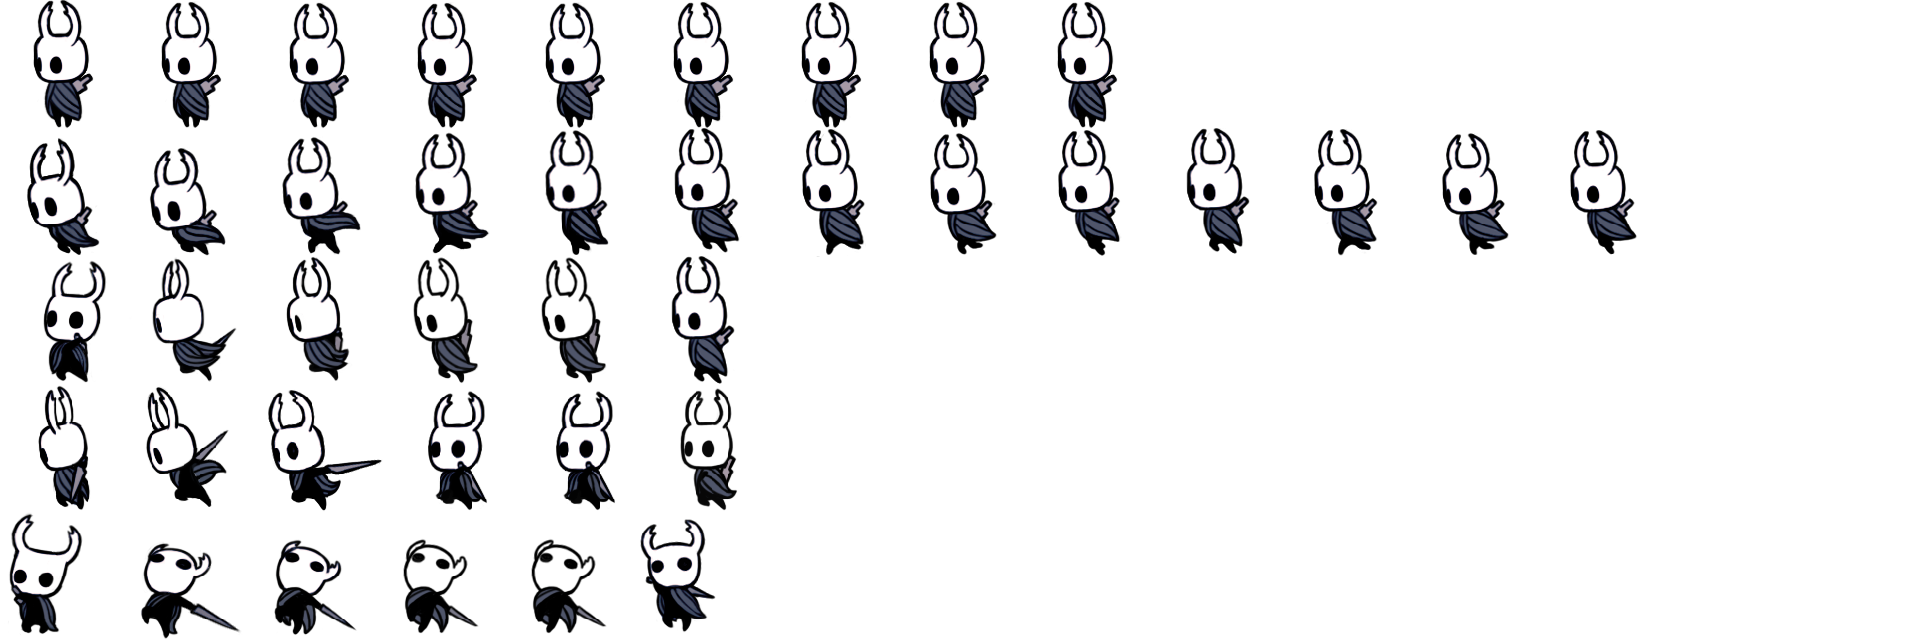
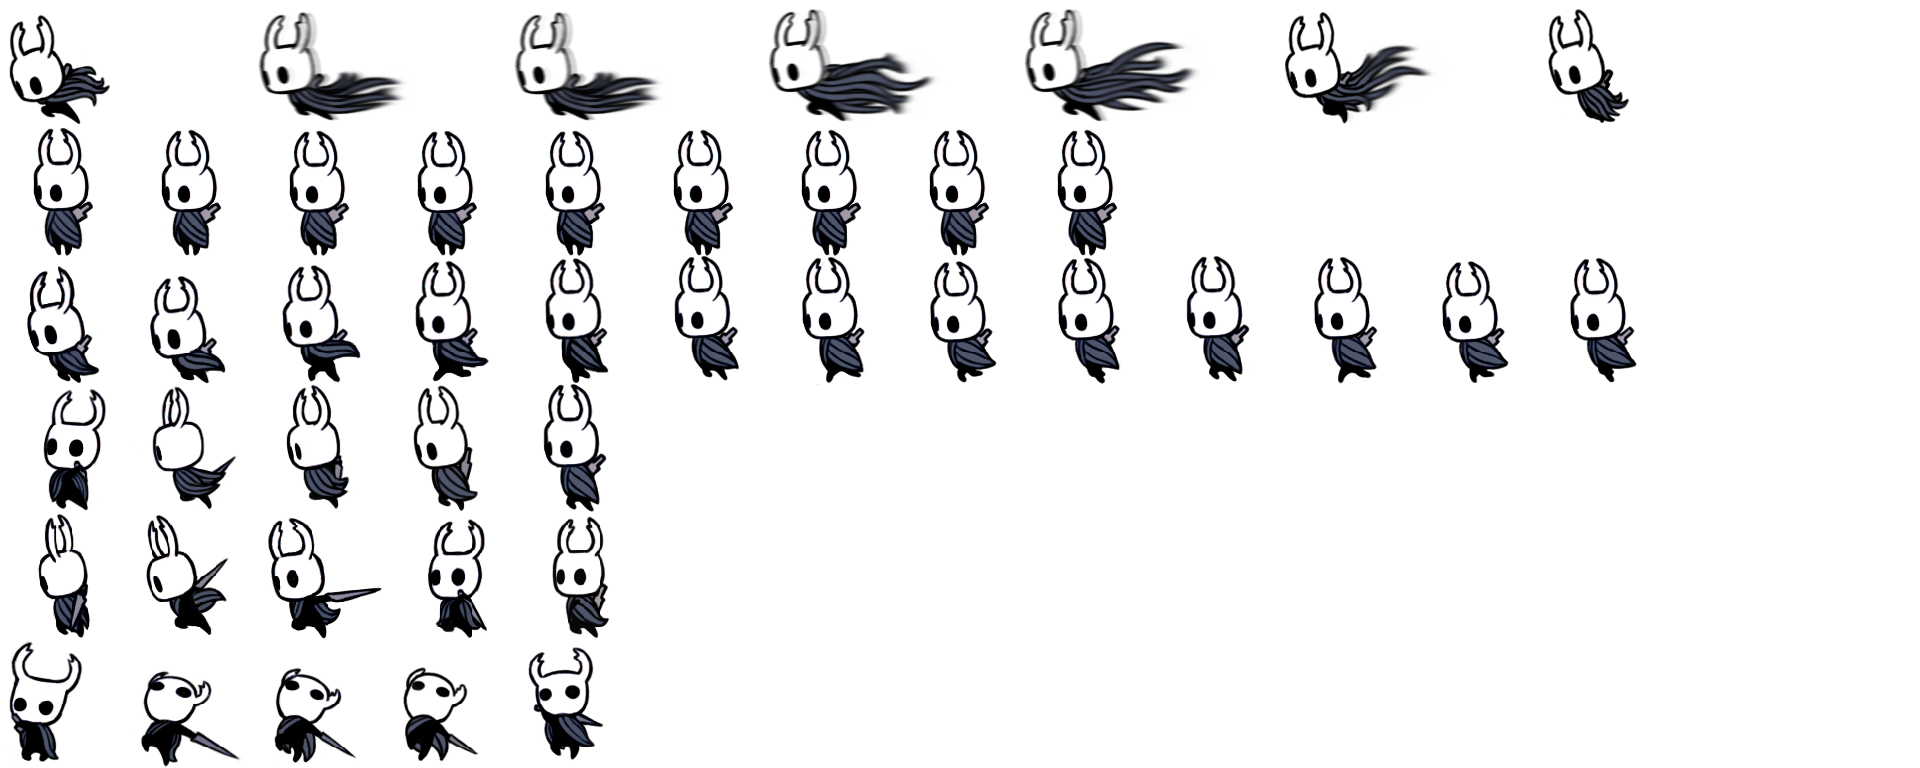
대쉬 상태 생성(아직 미완성)

diff --git a/knight.py b/knight.py
@@ -16,7 +16,7 @@ RUN_SPEED_MPS = (RUN_SPEED_MPM / 60.0)
 RUN_SPEED_PPS = (RUN_SPEED_MPS * PIXEL_PER_METER)
 
 
-TIME_PER_ACTION = 0.4
+TIME_PER_ACTION = 0.5
 ACTION_PER_TIME = 1.0 / TIME_PER_ACTION
 FRAMES_PER_ACTION_IDLE = 9
 FRAMES_PER_ACTION_RUN = 8
@@ -171,7 +171,7 @@ class Slash:
     @staticmethod
     def do(knight):
         knight.slash_frame = (knight.slash_frame + FRAMES_PER_ACTION_SLASH * ACTION_PER_TIME * game_framework.frame_time)
-        if knight.slash_frame > 5:
+        if knight.slash_frame > 4:
             knight.slash_frame = 0
             knight.state_machine.add_event(('ENT_MOTION', 0))
     @staticmethod
@@ -181,7 +181,7 @@ class Slash:
                 knight.image.clip_composite_draw(
                     int(knight.slash_frame) * 128, knight.action * 128, 128, 128,
                     0, 'h',
-                    knight.x - 41, knight.y, 128, 128
+                    knight.x - 16, knight.y, 128, 128
                 )
             else:
                 knight.image.clip_composite_draw(
@@ -191,7 +191,7 @@ class Slash:
                 )
         else:
             if knight.action == 0:
-                knight.image.clip_draw(int(knight.slash_frame) * 128, knight.action * 128, 128, 128, knight.x + 41,
+                knight.image.clip_draw(int(knight.slash_frame) * 128, knight.action * 128, 128, 128, knight.x + 16,
                                        knight.y)
             else:
                 knight.image.clip_draw(int(knight.slash_frame) * 128, knight.action * 128, 128, 128, knight.x, knight.y)
@@ -208,7 +208,7 @@ class Up_Slash:
     @staticmethod
     def do(knight):
         knight.slash_frame = (knight.slash_frame + FRAMES_PER_ACTION_SLASH * ACTION_PER_TIME * game_framework.frame_time)
-        if knight.slash_frame > 5:
+        if knight.slash_frame > 4:
             knight.slash_frame = 0
             knight.state_machine.add_event(('ENT_MOTION', 0))
     @staticmethod
@@ -218,7 +218,7 @@ class Up_Slash:
                 knight.image.clip_composite_draw(
                     int(knight.slash_frame) * 128, knight.action * 128, 128, 128,
                     0, 'h',
-                    knight.x - 41, knight.y, 128, 128
+                    knight.x - 16, knight.y, 128, 128
                 )
             else:
                 knight.image.clip_composite_draw(
@@ -228,7 +228,7 @@ class Up_Slash:
                 )
         else:
             if knight.action == 0:
-                knight.image.clip_draw(int(knight.slash_frame) * 128, knight.action * 128, 128, 128, knight.x + 41,
+                knight.image.clip_draw(int(knight.slash_frame) * 128, knight.action * 128, 128, 128, knight.x + 16,
                                        knight.y)
             else:
                 knight.image.clip_draw(int(knight.slash_frame) * 128, knight.action * 128, 128, 128, knight.x, knight.y)
@@ -253,7 +253,7 @@ class Move_Slash:
     @staticmethod
     def do(knight):
         knight.slash_frame = (knight.slash_frame + FRAMES_PER_ACTION_SLASH * ACTION_PER_TIME * game_framework.frame_time)
-        if knight.slash_frame > 5:
+        if knight.slash_frame > 4:
             knight.slash_frame = 0
             knight.state_machine.add_event(('ENT_MOTION', 0))
         knight.x += knight.dir * RUN_SPEED_PPS * game_framework.frame_time
@@ -265,7 +265,7 @@ class Move_Slash:
                 knight.image.clip_composite_draw(
                     int(knight.slash_frame) * 128, knight.action * 128, 128, 128,
                     0, 'h',
-                    knight.x - 41, knight.y, 128, 128
+                    knight.x - 16, knight.y, 128, 128
                 )
             else:
                 knight.image.clip_composite_draw(
@@ -275,7 +275,7 @@ class Move_Slash:
                 )
         else:
             if knight.action == 0:
-                knight.image.clip_draw(int(knight.slash_frame) * 128, knight.action * 128, 128, 128, knight.x + 41,
+                knight.image.clip_draw(int(knight.slash_frame) * 128, knight.action * 128, 128, 128, knight.x + 16,
                                        knight.y)
             else:
                 knight.image.clip_draw(int(knight.slash_frame) * 128, knight.action * 128, 128, 128, knight.x, knight.y)
@@ -299,7 +299,7 @@ class Up_Move_Slash:
     @staticmethod
     def do(knight):
         knight.slash_frame = (knight.slash_frame + FRAMES_PER_ACTION_SLASH * ACTION_PER_TIME * game_framework.frame_time)
-        if knight.slash_frame > 5:
+        if knight.slash_frame > 4:
             knight.slash_frame = 0
             knight.state_machine.add_event(('ENT_MOTION', 0))
         knight.x += knight.dir * RUN_SPEED_PPS * game_framework.frame_time
@@ -311,7 +311,7 @@ class Up_Move_Slash:
                 knight.image.clip_composite_draw(
                     int(knight.slash_frame) * 128, knight.action * 128, 128, 128,
                     0, 'h',
-                    knight.x - 41, knight.y, 128, 128
+                    knight.x - 16, knight.y, 128, 128
                 )
             else:
                 knight.image.clip_composite_draw(
@@ -321,10 +321,61 @@ class Up_Move_Slash:
                 )
         else:
             if knight.action == 0:
-                knight.image.clip_draw(int(knight.slash_frame) * 128, knight.action * 128, 128, 128, knight.x + 41,
+                knight.image.clip_draw(int(knight.slash_frame) * 128, knight.action * 128, 128, 128, knight.x + 16,
                                        knight.y)
             else:
                 knight.image.clip_draw(int(knight.slash_frame) * 128, knight.action * 128, 128, 128, knight.x, knight.y)
+
+class Dash:
+    @staticmethod
+    def enter(knight , e):
+        knight.frame = 0
+        pass
+    @staticmethod
+    def exit(knight , e):
+        pass
+    @staticmethod
+    def do(knight):
+        knight.frame = (knight.frame + FRAMES_PER_ACTION_SLASH * ACTION_PER_TIME * game_framework.frame_time)
+        if knight.frame > 7:
+            knight.state_machine.add_event(('ENT_MOTION', 0))
+        knight.x += knight.dir * RUN_SPEED_PPS * game_framework.frame_time
+    @staticmethod
+    def draw(knight):
+        if knight.face_dir == 1:
+            knight.image.clip_composite_draw(
+                int(knight.slash_frame) * 256, knight.action * 128, 256, 128,
+                0, 'h',
+                knight.x, knight.y, 256, 128
+            )
+        else:
+            knight.image.clip_draw(int(knight.slash_frame) * 256, knight.action * 128, 256, 128, knight.x, knight.y)
+
+
+class Up_Dash:
+    @staticmethod
+    def enter(knight , e):
+        knight.frame = 0
+        pass
+    @staticmethod
+    def exit(knight , e):
+        pass
+    @staticmethod
+    def do(knight):
+        knight.frame = (knight.frame + FRAMES_PER_ACTION_SLASH * ACTION_PER_TIME * game_framework.frame_time)
+        if knight.frame > 7:
+            knight.state_machine.add_event(('ENT_MOTION', 0))
+        knight.x += knight.dir * RUN_SPEED_PPS * game_framework.frame_time
+    @staticmethod
+    def draw(knight):
+        if knight.face_dir == 1:
+            knight.image.clip_composite_draw(
+                int(knight.slash_frame) * 256, knight.action * 128, 256, 128,
+                0, 'h',
+                knight.x, knight.y, 256, 128
+            )
+        else:
+            knight.image.clip_draw(int(knight.slash_frame) * 256, knight.action * 128, 256, 128, knight.x, knight.y)
 
 
 class Knight:
@@ -348,8 +399,11 @@ class Knight:
 
                 Slash:{end_motion: Idle , right_down: Move_Slash, left_down: Move_Slash, right_up: Move_Slash, left_up: Move_Slash ,up_down:Up_Slash },
                 Move_Slash:{end_motion: Run, right_down: Slash, left_down: Slash, right_up: Slash, left_up: Slash ,up_down:Up_Move_Slash},
-                Up_Slash:{end_motion: Up_Idle , right_down: Up_Move_Slash, left_down: Up_Move_Slash, right_up: Up_Move_Slash, left_up: Up_Move_Slash , up_up:Slash },
-                Up_Move_Slash: {end_motion: Up_Run, right_down: Up_Slash, left_down: Up_Slash,right_up: Up_Slash, left_up: Up_Slash , up_up:Move_Slash}
+                Up_Slash:{end_motion: Up_Idle , right_down: Up_Move_Slash, left_down: Up_Move_Slash, right_up: Up_Move_Slash, left_up: Up_Move_Slash ,up_up:Slash},
+                Up_Move_Slash: {end_motion: Up_Run, right_down: Up_Slash, left_down: Up_Slash,right_up: Up_Slash, left_up: Up_Slash , up_up:Move_Slash},
+
+                Dash:{},
+
             }
         )
         if Knight.image == None:
@@ -369,12 +423,12 @@ class Knight:
         self.slash_eff = Slash_eff()
         if(self.face_dir == -1):
             if self.action == 0:
-                self.slash_eff.x, self.slash_eff.y, self.slash_eff.action, self.slash_eff.face_dir = self.x + 32,self.y + 64,self.action,self.face_dir
+                self.slash_eff.x, self.slash_eff.y, self.slash_eff.action, self.slash_eff.face_dir = self.x,self.y + 64,self.action,self.face_dir
             else:
                 self.slash_eff.x, self.slash_eff.y, self.slash_eff.action, self.slash_eff.face_dir = self.x - 64, self.y, self.action, self.face_dir
         else:
             if self.action == 0:
-                self.slash_eff.x, self.slash_eff.y, self.slash_eff.action, self.slash_eff.face_dir = self.x - 32, self.y + 64,self.action,self.face_dir
+                self.slash_eff.x, self.slash_eff.y, self.slash_eff.action, self.slash_eff.face_dir = self.x, self.y + 64,self.action,self.face_dir
             else:
                 self.slash_eff.x, self.slash_eff.y, self.slash_eff.action, self.slash_eff.face_dir = self.x + 64,self.y,self.action,self.face_dir
 
